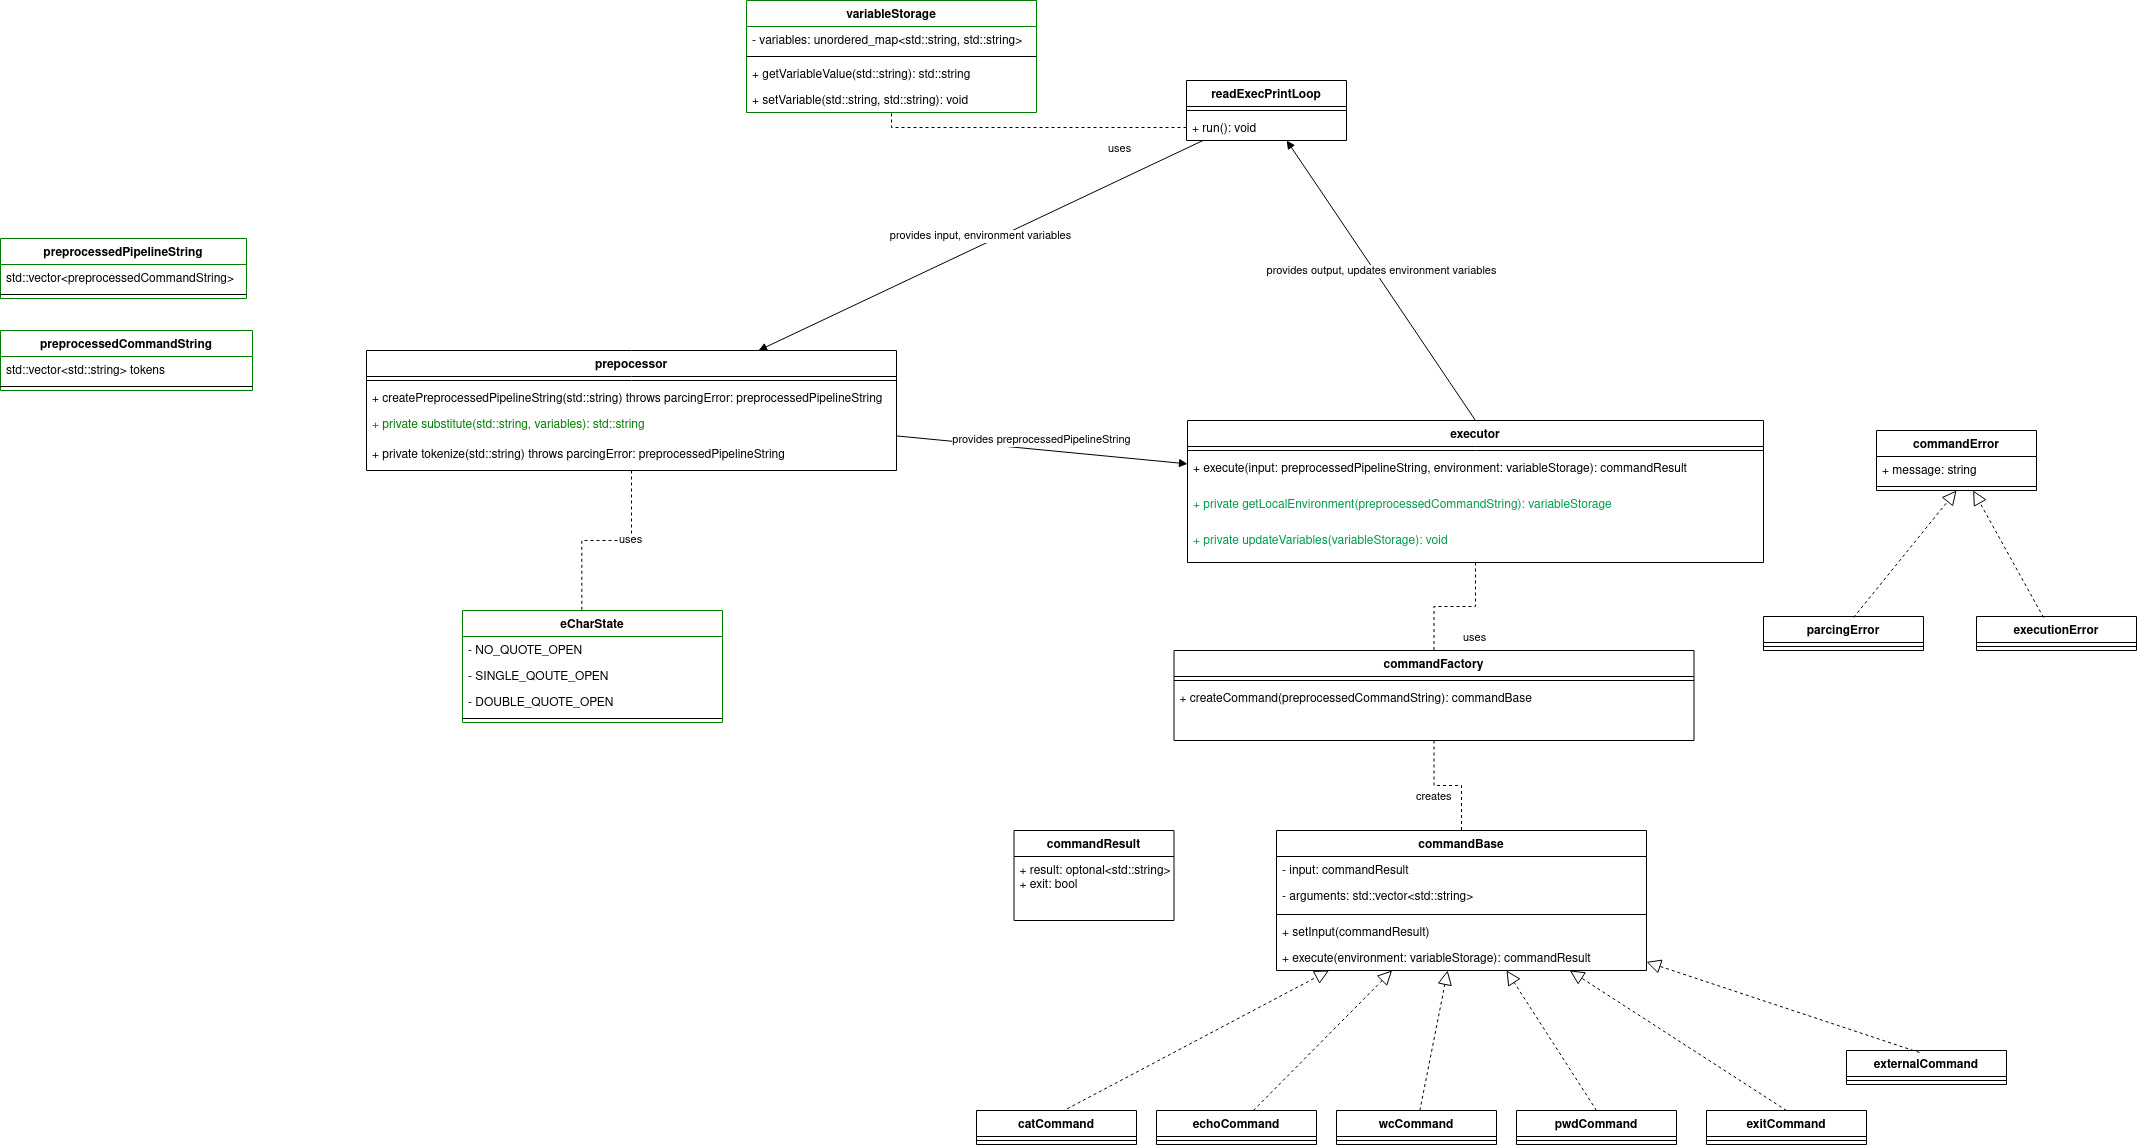
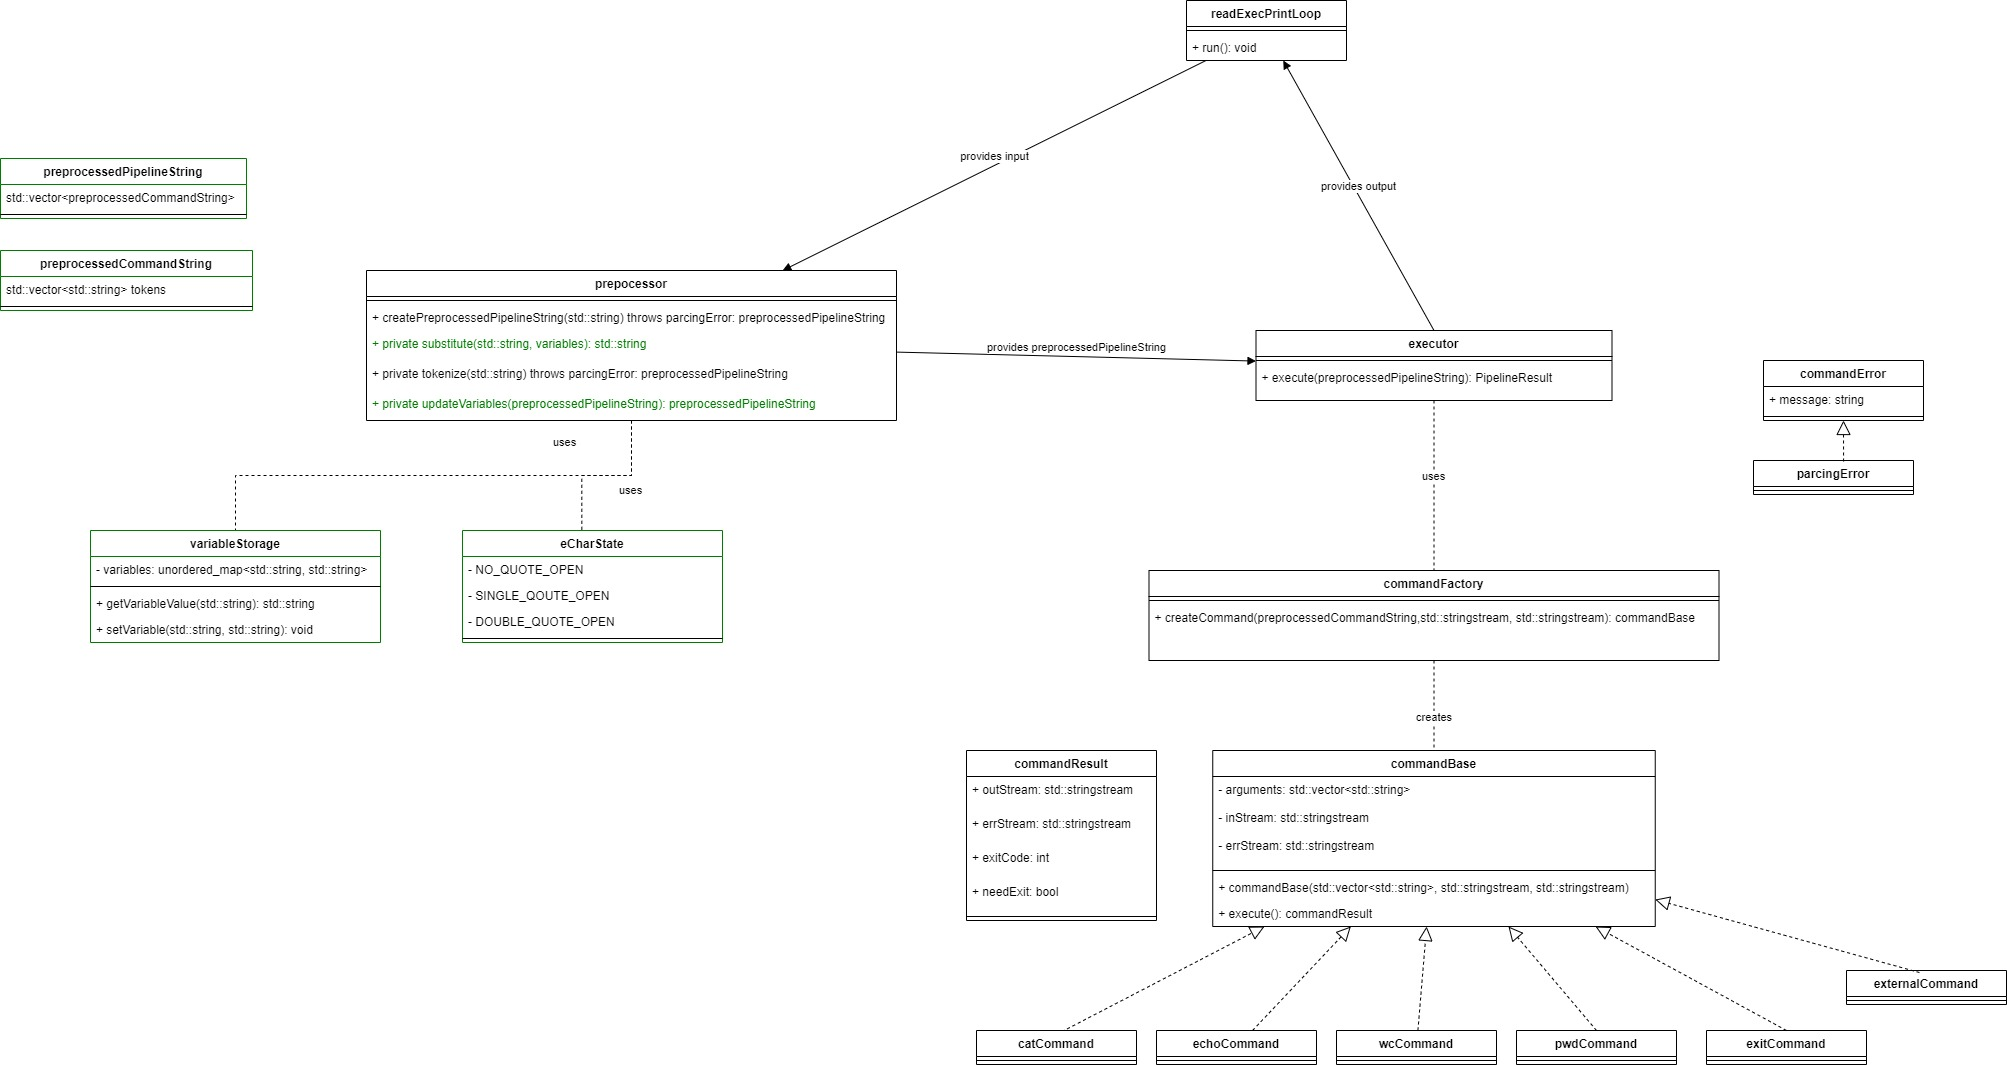
changes in classes commandBase, commandResult

diff --git a/src/executor.h b/src/executor.h
@@ -1,21 +1,19 @@
 #pragma once
 
+#include <sstream>
 #include "variables_storage.h"
 #include "preprocessor.h"
 
 struct CommandResult {
-  std::string output;
+  std::stringstream outStream;
+  std::stringstream errStream;
+  int exitCode = 0;
+  bool needExit = false;
 };
-
-struct PipelineResult {
-  CommandResult command_result;
-  bool exit;
-};
-
 
 class Executor {
  public:
-  PipelineResult Execute(const ExecutionPipeline& pipeline, VariablesStorage& variables) {
-    return PipelineResult();
+  CommandResult Execute(const ExecutionPipeline& pipeline, VariablesStorage& variables) {
+    return CommandResult();
   }   
 };

diff --git a/src/main.cpp b/src/main.cpp
@@ -13,7 +13,7 @@ class ReadExecPrintLoop {
     while (getline(std::cin, command_string)) {
       auto command = preprocessor_.ParseCommandString(command_string, variables_storage_);
       auto result = executor_.Execute(command, variables_storage_);
-      if (result.exit) {
+      if (result.needExit) {
         break;
       }
       std::cout << "done " << command_string << std::endl;

diff --git a/shell.md b/shell.md
@@ -3,7 +3,7 @@
 ## Read-Execute-Print-Loop
 При старте программы запускатеся метод run() в readExecPrintLoop. Этот класс отвечает за считывание команд пользователя и возвращение ему результата исполнения или сообщения об ошибке. Метод run работает бесконечно пока мы не получили от пользователя команду exit. Он также хранит текущие значения переменных окружения.
 
-При получении команды от пользователя мы сперва осуществляем препроцессинг, потом исполнение команды, а потом выводим пользователю результат исполнения или сообщение об ошибке.
+При получении команды от пользователя мы сперва осуществляем препроцессинг, потом исполнение команды, а потом выводим пользователю результат исполнения и сообщения об ошибках если они есть.
 
 ## Препроцессинг
 
@@ -51,17 +51,17 @@
 В результате createPreprocessedPipelineString или вылетает исключение, которое обрабатывается в readExecPrintLoop.run(), или возвращается массив предобработанных комманд, которые далее исполняются друг за другом.
 
 ## Исполнение
-После препроцессинга preprocessedPipelineString попадает в executor где из подготовленных строк создаются и исполняются команды. executor возвращает commandResult или бросает исключение executionError.
+После препроцессинга preprocessedPipelineString попадает в executor где из подготовленных строк создаются и исполняются команды. executor возвращает commandResult. commandResult хранит поток вывода, поток ошибок, код выхода, а также флаг needExit. 
 
 ### Первая фаза
-В методе execute мы создаем с помощью commandFactory из единственной preprocessedCommandString команду и исполняем их. 
+В методе execute мы создаем с помощью commandFactory команду из единственной preprocessedCommandString, потока ввода и потока ошибок. После этого мы исполняем созданную команду. 
 
-За команды отвечает класс commandBase и его наследники catCommand, echoCommand, wcCommand, pwdCommand, exitCommand и externalCommand. comandBase имеет метод execute() отвечающий за выполнение команды. При успешном выполнении он возращает commandResult, при ошибке бросает executionError.
-
-Если команда возвращает результат с флагом exit=true,то исполнение завершается и результат возвращаенися в readExecPrintLoop. Иначе если executor не бросил executionError то он возвращает commandResult в readExecPrintLoop.
+За команды отвечает класс commandBase и его наследники catCommand, echoCommand, wcCommand, pwdCommand, exitCommand и externalCommand. comandBase имеет метод execute() отвечающий за выполнение команды. При выполнении он возращает commandResult. 
 
 ### Вторая фаза
-В методе execute мы последовательно проходим по каждой preprocessedCommandString в preprocessedPipelineString, создаем команду, определяем для нее окружение и исполняем её. При исполнении мы сохраняем результат текущей команды чтобы передать его следующей команде в качестве input с помощью метода setInput.
+В методе execute мы последовательно проходим по каждой preprocessedCommandString в preprocessedPipelineString, создаем команду, определяем для нее окружение и исполняем её. При исполнении мы сохраняем поток вывода текущей команды чтобы передать его следующей команде в качестве потока ввода в конструкторе.
+
+По окончании выполнения последней команды пайплана итоговый commandResult возвращается в readExecPrintLoop. Если одна из команд пайплайна возвращает результат с флагом needExit=true или кодом выхода отличным от нуля, то исполнение пайплайна завершается и результат последней команды возвращается в readExecPrintLoop.
 
 Во второй фазе из readExecPrintLoop в execute передаются переменные окружения как variableStorage, а перед созданием каждой команды появляется дополнительная фаза. В методе getLocalEnvironment(preprocessedCommandString) для каждой команды определяются локальные переменные окружения, а именно: все начальные токены удовлетворяющие паттерну [a-zA-Z_][a-zA-Z_0-9]\*=.\* считаются объявлениями переменных, причем часть токена до символа '=' считается названием переменной name, а после - новым значением value. Все эти токены удаляются из preprocessedCommandString, а полученные переменные возвращаются из getLocalEnvironment как variableStorage. 
 
